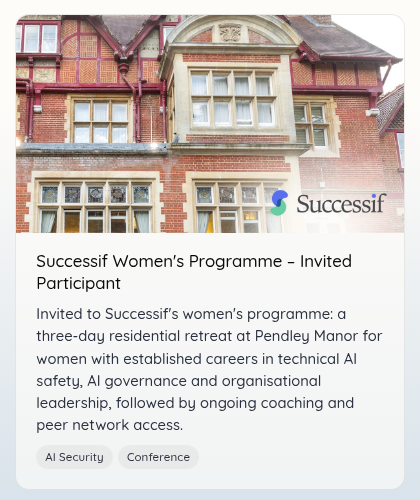
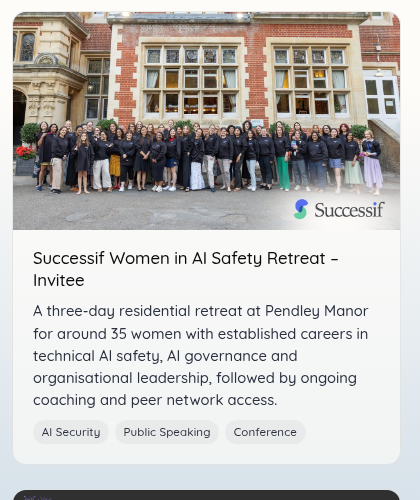
content: rebuild the Successif tile around the cohort photo
The first version cropped IMG_6020.jpg to the manor facade, because the file
was read while it was still uploading and the undelivered half decoded as grey.
The complete photo is the retreat group outside Pendley Manor, which is the
point of the tile.

Every candidate now keeps the whole row of ~35 people in frame and places the
wordmark where it covers nobody: the tarmac foreground, or a cream strip below
the photo. The live tile keeps the Lateral-style treatment — colour logo bottom
right on a soft cream oval.

Also per Jess:
- title is now "Successif Women in AI Safety Retreat – Invitee"
- the description no longer restates the title before the colon, and gives the
  cohort size
- tagged AI Security, Public Speaking and Conference
- the tile sits after the BlueDot TAISP tile rather than second in the grid

diff --git a/docs/assets/successif-retreat-tile-candidates/make_tiles.py b/docs/assets/successif-retreat-tile-candidates/make_tiles.py
@@ -1,37 +1,46 @@
 #!/usr/bin/env python3
 """Build 16:9 tile candidates for the Successif Women's Retreat project tile.
 
-Source photo is Jess's shot of Pendley Manor (the retreat venue). Its upload was
-cut off at exactly 15 MiB, so only the top 2985 of 5336 rows decode — every crop
-here is taken from that intact strip.
+Source is Jess's cohort photo (`IMG_6020.jpg`, 8000x5336): the retreat group
+outside Pendley Manor. The subject is the group, so every candidate keeps the
+whole row of people in frame and puts the Successif wordmark somewhere that
+covers nobody — the tarmac foreground, or a cream strip below the photo.
 
 Needs Pillow. Run from this folder with the source photo path as argv[1]
 (default ~/dev/IMG_6020.jpg). Nothing in this folder is served by the site.
 """
 import sys
-from PIL import Image, ImageFile, ImageOps, ImageDraw, ImageFilter, ImageEnhance
-
-ImageFile.LOAD_TRUNCATED_IMAGES = True  # the source upload is truncated
+from PIL import Image, ImageDraw, ImageEnhance, ImageFilter, ImageOps
 
 SRC = sys.argv[1] if len(sys.argv) > 1 else '/home/ubuntu/dev/IMG_6020.jpg'
-USABLE_H = 2985          # last row of intact scan data
-TILE = (1200, 675)       # matches lateral-workshop-2026.jpg
-S = 2                    # supersample factor
+
+TILE = (1200, 675)       # matches the other tiles
+S = 2                    # supersample, downscaled at the end
 W, H = TILE[0] * S, TILE[1] * S
 CREAM = (254, 252, 249)  # --color-bg-top / .project-card hover background
+
+# The group spans x 1169-6892, heads at y 3477, feet at y 4769. This window
+# holds all of it with margin, plus the entrance arch, the stained-glass bay
+# above, and a band of tarmac at the bottom to sit the logo on.
+GROUP_16_9 = (820, 1725, 7240, 5336)
+# A shallower panorama of the same view, for the variants that pair the photo
+# with a cream strip rather than overlaying it.
+GROUP_PANORAMA = (820, 2122, 7240, 5150)
 
 LOGO_COLOUR = 'successif_logo.png'
 LOGO_WHITE = 'successif_logo_white.png'
 
 
+def source():
+    return ImageOps.exif_transpose(Image.open(SRC)).convert('RGB')
+
+
 def base_photo():
-    """The chosen 16:9 window: arched gable, roofline and a sliver of sky."""
-    src = ImageOps.exif_transpose(Image.open(SRC)).convert('RGB')
-    crop = src.crop((2693, 0, 2693 + 5307, USABLE_H))
-    return crop.resize((W, H), Image.LANCZOS)
+    return source().crop(GROUP_16_9).resize((W, H), Image.LANCZOS)
 
 
-def softened(img, brightness=1.06, saturation=0.92):
+def softened(img, brightness=1.03, saturation=0.96):
+    """A light touch only — faces should not go waxy."""
     img = ImageEnhance.Brightness(img).enhance(brightness)
     return ImageEnhance.Color(img).enhance(saturation)
 
@@ -41,134 +50,117 @@ def logo(path, width):
     return lg.resize((width, round(width * lg.size[1] / lg.size[0])), Image.LANCZOS)
 
 
-def feathered_wash(size, box, blur, strength=255):
-    """A blurred white wash confined to `box`, used as a paste mask."""
-    mask = Image.new('L', size, 0)
-    ImageDraw.Draw(mask).rectangle(box, fill=strength)
-    return mask.filter(ImageFilter.GaussianBlur(blur))
-
-
-def elliptical_wash(size, logo_box, pad):
-    """A soft oval of cream centred on the logo — smoother than a blurred rect,
-    so it reads as light falling on the wall rather than a patch of fog."""
+def elliptical_wash(size, logo_box, pad, strength=250):
+    """A soft oval of cream centred on the logo, so it reads as light on the
+    ground rather than a patch of fog."""
     x0, y0, x1, y1 = logo_box
     mask = Image.new('L', size, 0)
     ImageDraw.Draw(mask).ellipse(
-        (x0 - pad * 1.9, y0 - pad * 1.5, x1 + pad * 1.9, y1 + pad * 1.5), fill=250
+        (x0 - pad * 1.9, y0 - pad * 1.6, x1 + pad * 1.9, y1 + pad * 1.6), fill=strength
     )
     return mask.filter(ImageFilter.GaussianBlur(pad * 1.5))
 
 
 def paste_logo(img, lg, xy):
-    img.paste(lg, xy, lg)
+    img.paste(lg, (round(xy[0]), round(xy[1])), lg)
+
+
+def with_cream_strip(strip_fraction, logo_width, align='left'):
+    """Photo on top, a strip of card-coloured cream beneath holding the logo.
+    Covers nobody, and the strip colour means the tile melts into the card."""
+    strip_h = round(H * strip_fraction)
+    photo_h = H - strip_h
+    photo = source().crop(GROUP_PANORAMA)
+    photo = softened(photo.resize((W, photo_h), Image.LANCZOS))
+
+    img = Image.new('RGB', (W, H), CREAM)
+    img.paste(photo, (0, 0))
+
+    lg = logo(LOGO_COLOUR, round(W * logo_width))
+    pad = round(W * 0.045)
+    x = pad if align == 'left' else W - lg.size[0] - pad
+    paste_logo(img, lg, (x, photo_h + (strip_h - lg.size[1]) // 2))
+    return img
 
 
 # ---------------------------------------------------------------- candidates
 
-def A_logo_br_feathered(photo):
-    """House style (as the Lateral C8 tile): colour logo bottom right over a very
-    soft white underlay that runs into the cream card edge."""
+def A_logo_br_on_tarmac(photo):
+    """House style, as the Lateral tile: colour wordmark over a soft cream
+    glow. Sits on the tarmac below the group, clear of everyone's feet."""
     img = softened(photo.copy())
-    lg = logo(LOGO_COLOUR, round(W * 0.30))
-    pad = round(W * 0.045)
-    x, y = W - lg.size[0] - pad, H - lg.size[1] - pad
+    lg = logo(LOGO_COLOUR, round(W * 0.235))
+    pad = round(W * 0.028)
+    x, y = W - lg.size[0] - pad * 1.4, H - lg.size[1] - pad
     img.paste(Image.new('RGB', img.size, CREAM), (0, 0),
               elliptical_wash(img.size, (x, y, x + lg.size[0], y + lg.size[1]), pad))
     paste_logo(img, lg, (x, y))
     return img
 
 
-def B_logo_bl_feathered(photo):
+def B_logo_bl_on_tarmac(photo):
     """As A, mirrored to the bottom left."""
     img = softened(photo.copy())
-    lg = logo(LOGO_COLOUR, round(W * 0.30))
-    pad = round(W * 0.045)
-    x, y = pad, H - lg.size[1] - pad
+    lg = logo(LOGO_COLOUR, round(W * 0.235))
+    pad = round(W * 0.028)
+    x, y = pad * 1.4, H - lg.size[1] - pad
     img.paste(Image.new('RGB', img.size, CREAM), (0, 0),
               elliptical_wash(img.size, (x, y, x + lg.size[0], y + lg.size[1]), pad))
     paste_logo(img, lg, (x, y))
     return img
 
 
-def C_cream_band(photo):
-    """A cream band across the bottom, soft-edged at the top, logo sitting in it.
-    The band colour is the card background, so the tile melts into the card."""
+def C_cream_strip(_photo):
+    """Panorama of the group above a cream strip carrying the logo."""
+    return with_cream_strip(0.155, 0.24, align='left')
+
+
+def D_cream_strip_right(_photo):
+    """As C, logo right-aligned."""
+    return with_cream_strip(0.155, 0.24, align='right')
+
+
+def E_panel_br(photo):
+    """Crisp rounded cream panel on the tarmac, bottom right."""
     img = softened(photo.copy())
-    band_top = round(H * 0.76)
-    mask = Image.new('L', img.size, 0)
-    ImageDraw.Draw(mask).rectangle((0, band_top, W, H), fill=255)
-    mask = mask.filter(ImageFilter.GaussianBlur(round(H * 0.045)))
-    img.paste(Image.new('RGB', img.size, CREAM), (0, 0), mask)
-    lg = logo(LOGO_COLOUR, round(W * 0.31))
-    band_mid = band_top + (H - band_top) // 2
-    paste_logo(img, lg, (round(W * 0.055), band_mid - lg.size[1] // 2 + round(H * 0.02)))
-    return img
-
-
-def D_split(photo):
-    """Cream panel left, photo right, soft vertical seam — logo owns the panel."""
-    img = softened(photo.copy())
-    # push the photo right so the gable stays in the visible half
-    seam = round(W * 0.46)
-    mask = Image.new('L', img.size, 0)
-    ImageDraw.Draw(mask).rectangle((0, 0, seam, H), fill=255)
-    mask = mask.filter(ImageFilter.GaussianBlur(round(W * 0.018)))
-    img.paste(Image.new('RGB', img.size, CREAM), (0, 0), mask)
-    lg = logo(LOGO_COLOUR, round(W * 0.35))
-    paste_logo(img, lg, (round(W * 0.05), H // 2 - lg.size[1] // 2))
-    return img
-
-
-def E_white_scrim(photo):
-    """White logo bottom right over a soft dark gradient scrim — keeps the brick."""
-    img = photo.copy()
-    scrim = Image.new('L', img.size, 0)
-    d = ImageDraw.Draw(scrim)
-    for i in range(H):
-        t = max(0.0, (i - H * 0.42) / (H * 0.58))
-        d.line((0, i, W, i), fill=int(215 * t ** 1.35))
-    img.paste(Image.new('RGB', img.size, (18, 22, 28)), (0, 0), scrim)
-    lg = logo(LOGO_WHITE, round(W * 0.28))
-    pad = round(W * 0.05)
-    paste_logo(img, lg, (W - lg.size[0] - pad, H - lg.size[1] - pad))
-    return img
-
-
-def F_panel_br(photo):
-    """Crisp rounded cream panel bottom right (the Lateral C1 treatment)."""
-    img = softened(photo.copy())
-    lg = logo(LOGO_COLOUR, round(W * 0.28))
-    pad = round(W * 0.04)
-    inset = round(W * 0.028)
+    lg = logo(LOGO_COLOUR, round(W * 0.21))
+    pad = round(W * 0.025)
+    inset = round(W * 0.018)
     pw, ph = lg.size[0] + inset * 2, lg.size[1] + inset * 2
     px, py = W - pw - pad, H - ph - pad
     panel = Image.new('RGBA', (pw, ph), (0, 0, 0, 0))
     ImageDraw.Draw(panel).rounded_rectangle(
-        (0, 0, pw - 1, ph - 1), radius=round(ph * 0.22), fill=CREAM + (242,)
+        (0, 0, pw - 1, ph - 1), radius=round(ph * 0.24), fill=CREAM + (240,)
     )
     img.paste(panel, (px, py), panel)
     paste_logo(img, lg, (px + inset, py + inset))
     return img
 
 
-def G_panel_tight(_photo):
-    """F's panel, but on a tighter crop that makes the arched gable the subject."""
-    src = ImageOps.exif_transpose(Image.open(SRC)).convert('RGB')
-    tight = src.crop((3400, 0, 3400 + 4000, 2250)).resize((W, H), Image.LANCZOS)
-    return F_panel_br(tight)
+def F_white_on_tarmac(photo):
+    """White wordmark straight onto the tarmac, which is dark and even enough
+    to carry it without any scrim at all."""
+    img = softened(photo.copy())
+    lg = logo(LOGO_WHITE, round(W * 0.225))
+    pad = round(W * 0.028)
+    paste_logo(img, lg, (W - lg.size[0] - pad * 1.4, H - lg.size[1] - pad))
+    return img
 
 
-CANDIDATES = [A_logo_br_feathered, B_logo_bl_feathered, C_cream_band,
-              D_split, E_white_scrim, F_panel_br, G_panel_tight]
+def G_wider_manor(_photo):
+    """A's treatment on a wider window: more of the manor, smaller group."""
+    photo = source().crop((300, 1174, 7700, 5336)).resize((W, H), Image.LANCZOS)
+    return A_logo_br_on_tarmac(photo)
+
+
+CANDIDATES = [A_logo_br_on_tarmac, B_logo_bl_on_tarmac, C_cream_strip,
+              D_cream_strip_right, E_panel_br, F_white_on_tarmac, G_wider_manor]
 
 if __name__ == '__main__':
     photo = base_photo()
-    made = []
     for fn in CANDIDATES:
-        name = fn.__name__.replace('_', '-', 1).replace('_', '-')
-        out = fn(photo).resize(TILE, Image.LANCZOS)
-        path = f'{name}.jpg'
-        out.save(path, quality=82, optimize=True, progressive=True)
-        made.append(path)
+        letter, rest = fn.__name__.split('_', 1)
+        path = f'{letter}-{rest.replace("_", "-")}.jpg'
+        fn(photo).resize(TILE, Image.LANCZOS).save(
+            path, quality=82, optimize=True, progressive=True)
         print('wrote', path)
-    print('\n'.join(made))

diff --git a/docs/assets/successif-retreat-tile-candidates/README.md b/docs/assets/successif-retreat-tile-candidates/README.md
@@ -1,29 +1,31 @@
-# Successif Women's Programme tile — candidates
+# Successif Women in AI Safety Retreat tile — candidates
 
 The live tile (`public/images/successif-womens-retreat-2026.jpg`) uses variant
-**A**: Jess's photo of Pendley Manor with the Successif wordmark in brand colours
-bottom right, over a soft oval of cream (`#fefcf9`, the card background) so the
-logo sits in light rather than on a panel. Same treatment as the Lateral
-Workshop tile, so the two invited-participant tiles read as a pair.
+**A**: the cohort photo outside Pendley Manor with the Successif wordmark in
+brand colours bottom right, over a soft oval of cream (`#fefcf9`, the card
+background) sitting on the tarmac. Same treatment as the Lateral Workshop tile,
+so the two invited-participant tiles read as a pair.
 
-## Source photo caveat
+The subject is the group, so every candidate keeps the whole row of people in
+frame and puts the wordmark somewhere that covers nobody — either the tarmac
+foreground or a cream strip below the photo.
 
-The source (`IMG_6020.jpg`, 8000x5336) **arrived truncated at exactly 15 MiB** —
-only the top 2985 rows contain scan data, the rest decodes as flat grey. Every
-crop here is therefore taken from that intact upper strip, which is why they are
-all facade detail rather than the full building. If the complete photo is
-re-supplied, re-run `make_tiles.py` with a lower crop for a wider shot.
+## The candidates (all 1200x675, ~186–215 KB)
 
-## The candidates (all 1200x675, ~125–205 KB)
+- `A-logo-br-on-tarmac.jpg` — **live tile.** Colour logo bottom right on a soft cream oval
+- `B-logo-bl-on-tarmac.jpg` — as A, mirrored to the bottom left
+- `C-cream-strip.jpg` — the group as a panorama above a cream strip, logo left
+- `D-cream-strip-right.jpg` — as C, logo right-aligned
+- `E-panel-br.jpg` — crisp rounded cream panel on the tarmac, bottom right
+- `F-white-on-tarmac.jpg` — white wordmark straight onto the tarmac, no scrim;
+  the ground is dark and even enough to carry it
+- `G-wider-manor.jpg` — A's treatment on a wider window: more manor, smaller group
 
-- `A-logo-br-feathered.jpg` — **live tile.** Colour logo bottom right on a soft cream oval
-- `B-logo-bl-feathered.jpg` — as A, mirrored to the bottom left
-- `C-cream-band.jpg` — cream band across the bottom quarter, logo seated in it
-- `D-split.jpg` — cream panel left, photo right, soft vertical seam
-- `E-white-scrim.jpg` — white logo bottom right over a dark gradient; the pale
-  brick fights it, kept only for completeness
-- `F-panel-br.jpg` — crisp rounded cream panel bottom right (the Lateral C1 treatment)
-- `G-panel-tight.jpg` — as F, on a tighter crop that makes the arched gable the subject
+## Crop
+
+`GROUP_16_9 = (820, 1725, 7240, 5336)` holds the whole group (which spans
+x 1169–6892, heads at y 3477, feet at y 4769) with margin, plus the entrance
+arch, the stained-glass bay above, and a band of tarmac for the logo.
 
 ## Regenerating
 
